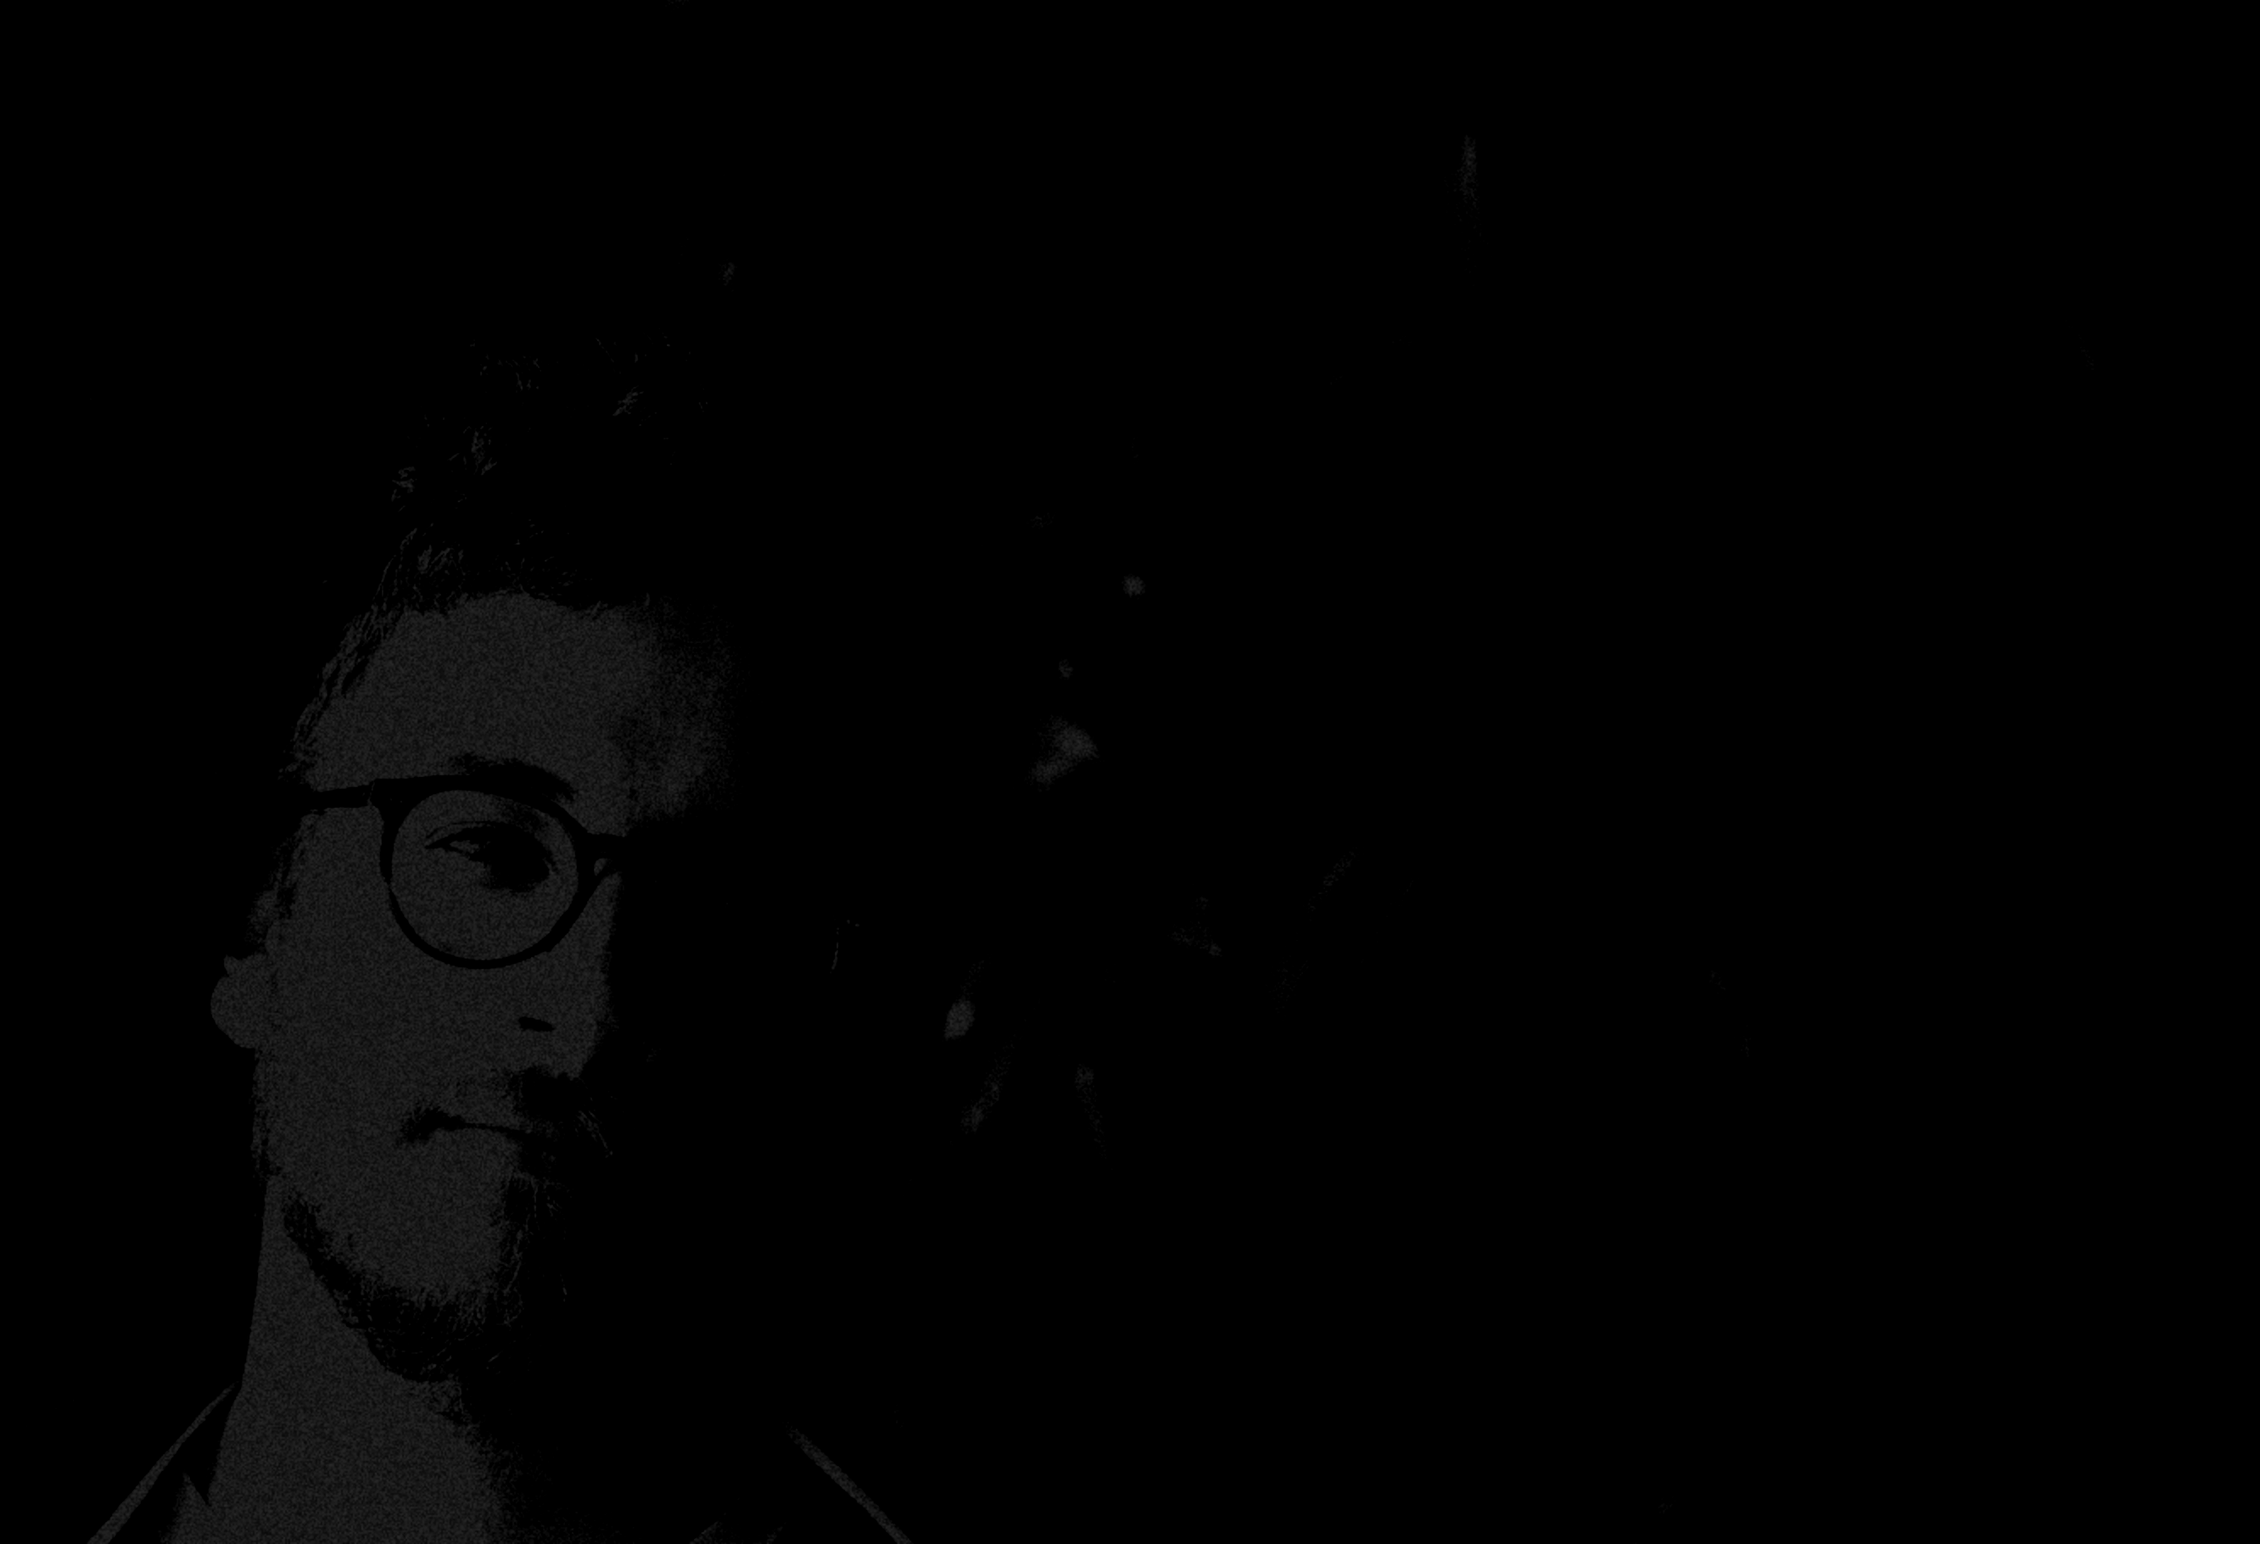
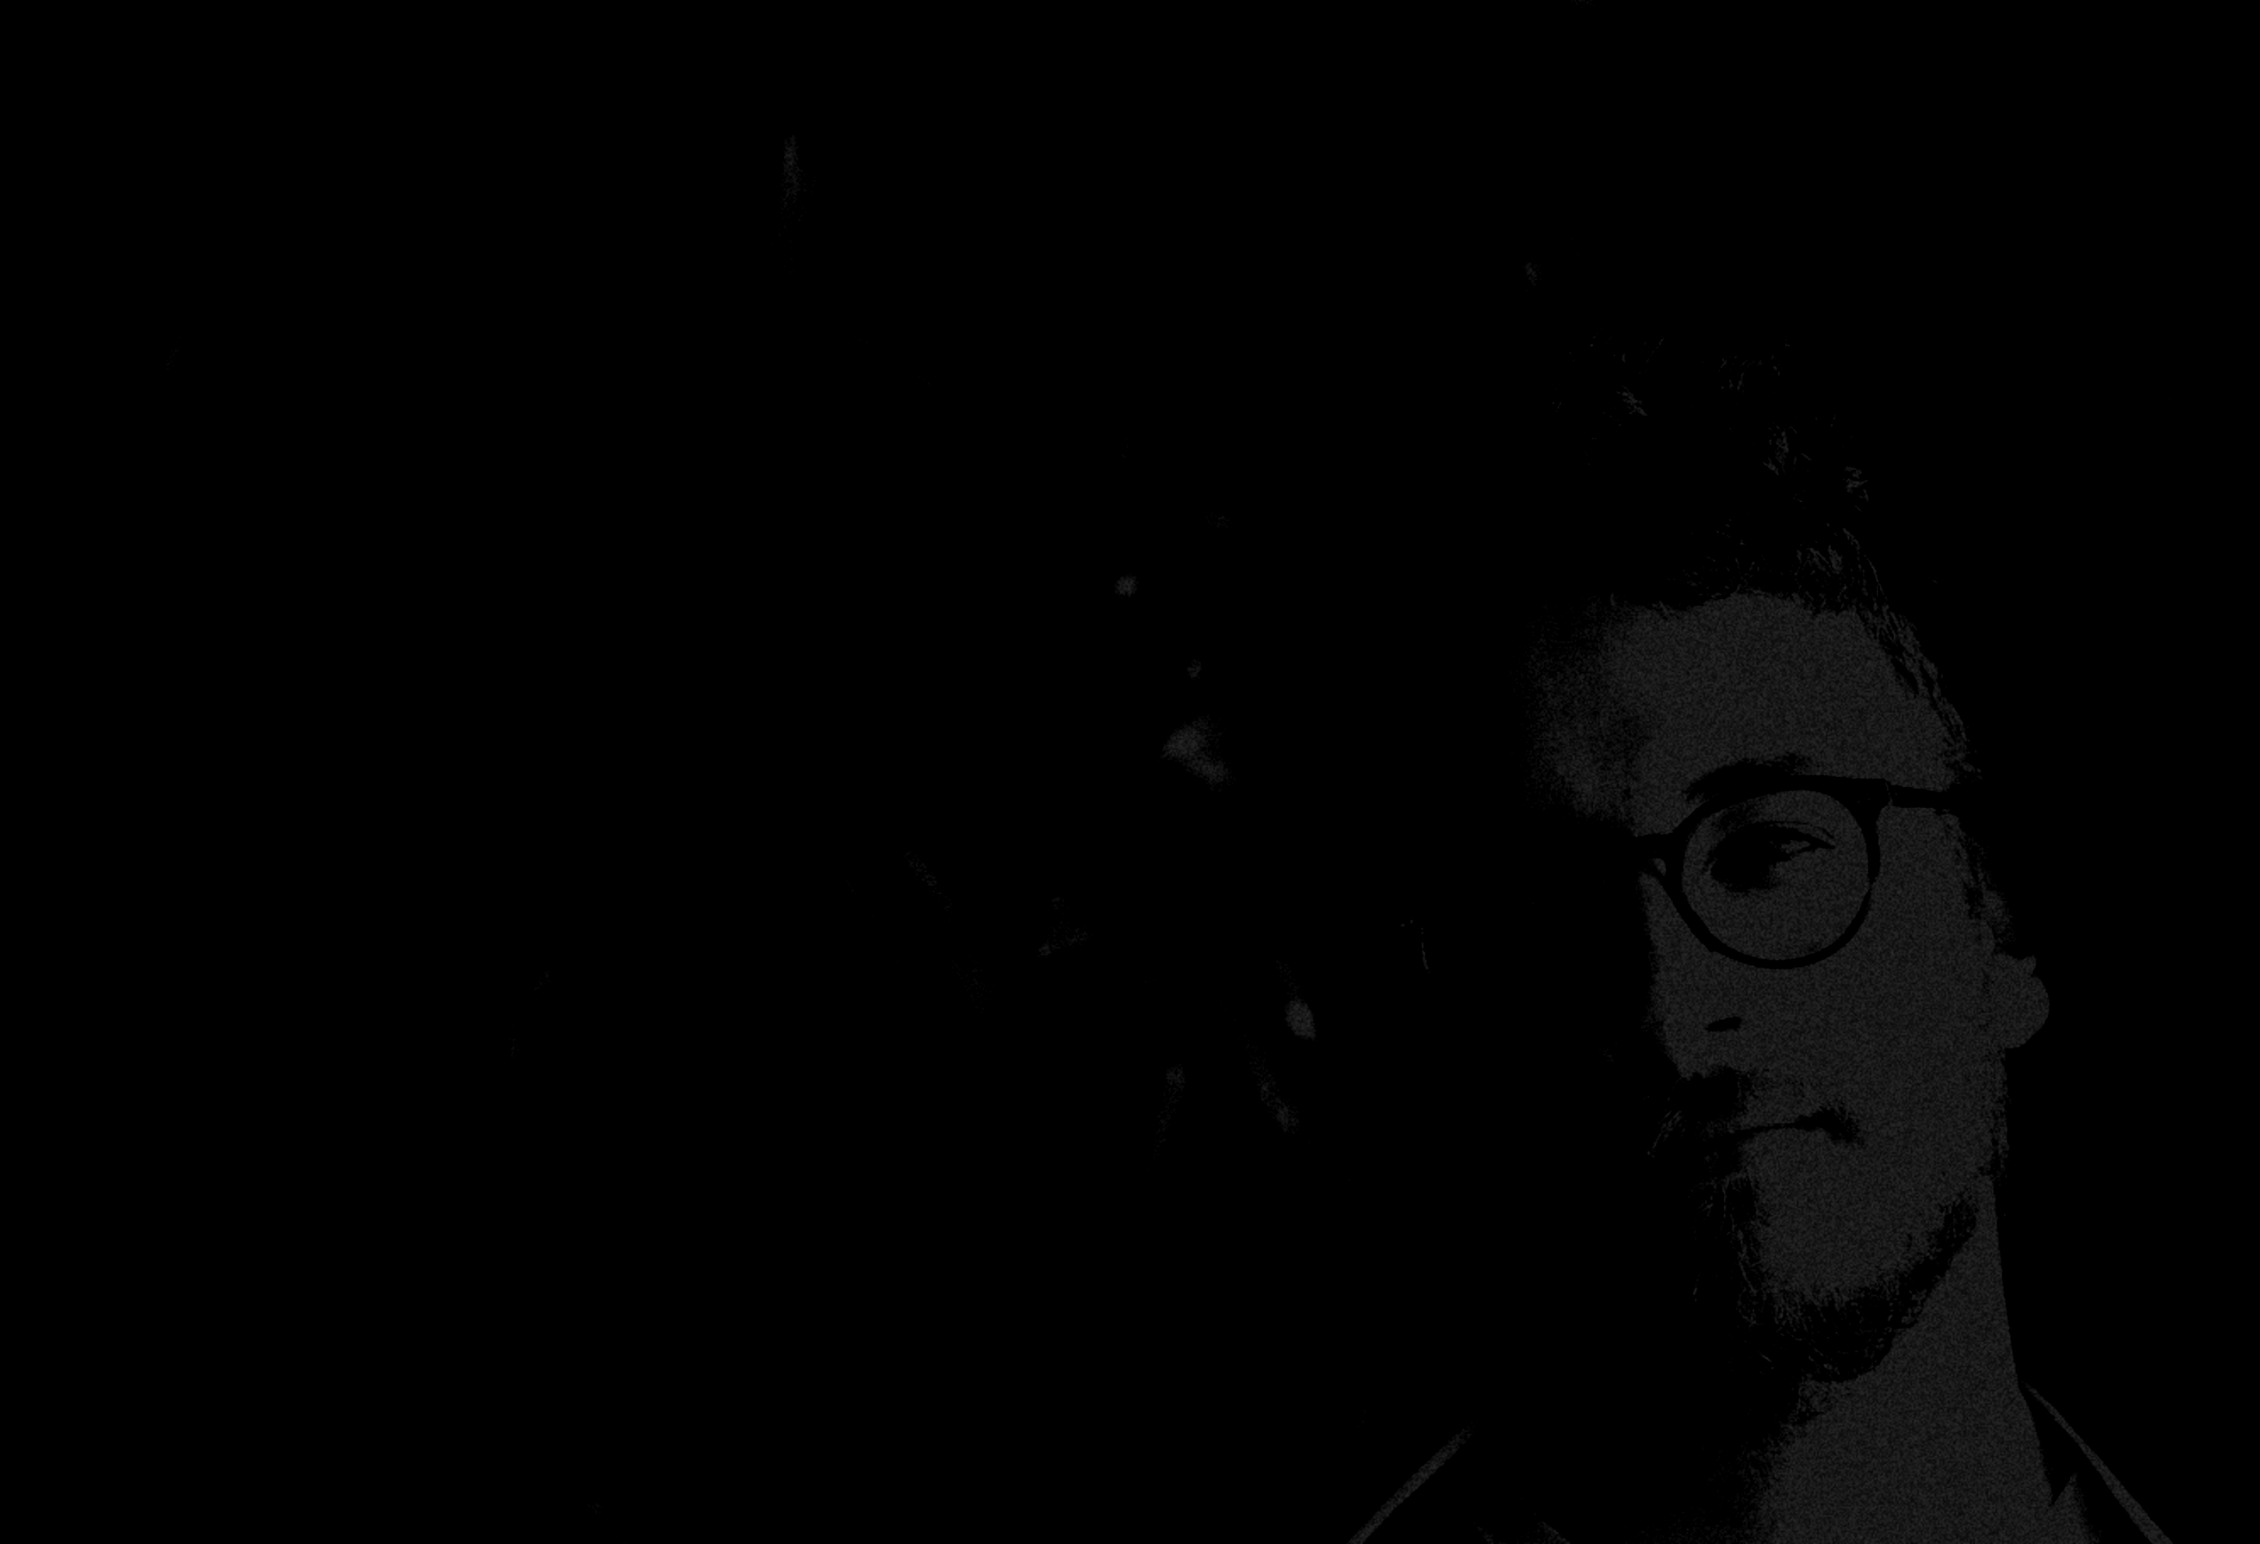
mostly complete reverse from right to left

Changed region(s): [[0.0312, 0.3692, 0.3116, 1.0], [0.6854, 0.3692, 0.9658, 1.0]]

diff --git a/src/components/WideBandAccordion.tsx b/src/components/WideBandAccordion.tsx
@@ -2,9 +2,10 @@ import React from "react";
 import { useState } from "react";
 import { useOnPrint } from "../UseOnPrint";
 import FeatherIcon from "feather-icons-react";
+import { ResumeSection } from "@/types";
 
 export interface AccordionSection {
-  section: string;
+  section: ResumeSection;
   title: React.ReactNode;
   children: React.ReactNode;
   expandedByDefault?: boolean;
@@ -16,14 +17,14 @@ export function WideBandAccordion({
   sections: AccordionSection[];
 }) {
   // selectedKeys is a Set of string indices of open dropdowns, or "all" for all open
-  const [selectedKeys, setSelectedKeys] = useState<Set<string> | "all">(
+  const [selectedKeys, setSelectedKeys] = useState<Set<ResumeSection> | "all">(
     () =>
       new Set(
         sections
           .map((section, i) =>
             section.expandedByDefault ? section.section : null,
           )
-          .filter((i) => i !== null) as string[],
+          .filter((i) => i !== null) as ResumeSection[],
       ),
   );
 
@@ -34,21 +35,21 @@ export function WideBandAccordion({
   // TODO: restore previously expanded sections
   useOnPrint(expandAllAccordionSections, () => {});
 
-  const isOpen = (i: number) =>
+  const isSectionOpen = (section: AccordionSection) =>
     selectedKeys === "all" ||
-    (selectedKeys instanceof Set && selectedKeys.has(sections[i].section));
+    (selectedKeys instanceof Set && selectedKeys.has(section.section));
 
-  const handleToggle = (i: number) => {
+  const handleSectionToggle = (section: AccordionSection) => {
     setSelectedKeys((prev) => {
       if (prev === "all") {
         // If all are open, close all except this one
-        return new Set([sections[i].section]);
+        return new Set([section.section]);
       }
       const newSet = new Set(prev);
-      if (newSet.has(sections[i].section)) {
-        newSet.delete(sections[i].section);
+      if (newSet.has(section.section)) {
+        newSet.delete(section.section);
       } else {
-        newSet.add(sections[i].section);
+        newSet.add(section.section);
       }
       return newSet;
     });
@@ -56,13 +57,12 @@ export function WideBandAccordion({
 
   return (
     <div>
-      {sections.map((section, i) => (
+      {sections.map((section) => (
         <WideBandAccordionSection
           key={section.section}
           section={section}
-          i={i}
-          isOpen={isOpen}
-          handleToggle={handleToggle}
+          isOpen={isSectionOpen(section)}
+          onToggle={() => handleSectionToggle(section)}
         />
       ))}
     </div>
@@ -71,37 +71,35 @@ export function WideBandAccordion({
 
 function WideBandAccordionSection({
   section,
-  i,
   isOpen,
-  handleToggle,
+  onToggle,
 }: {
   section: AccordionSection;
-  i: number;
-  isOpen: (i: number) => boolean;
-  handleToggle: (i: number) => void;
+  isOpen: boolean;
+  onToggle: () => void;
 }) {
   return (
     <div className="mb-2">
       <div
-        className={`collapse -mr-[10vw] w-screen rounded-none ${isOpen(i) ? "collapse-open" : ""}`}
+        className={`collapse w-screen rounded-none ${isOpen ? "collapse-open" : ""}`}
       >
         <div
           tabIndex={0}
-          className="collapse-title to-primary print:text-md print:font-metal via-primary/60 flex w-full cursor-pointer items-center justify-between bg-gradient-to-r from-transparent via-25% px-4 py-3 pr-[10vw] text-lg font-bold tracking-tight text-black uppercase md:text-2xl print:ml-4 print:text-left"
-          onClick={() => handleToggle(i)}
+          className="collapse-title print:text-md print:font-metal via-primary/40 from-primary flex w-full cursor-pointer items-center justify-start bg-gradient-to-r via-75% to-transparent py-3 pl-1 text-lg font-bold tracking-tight text-black uppercase md:text-2xl print:ml-4"
+          onClick={onToggle}
         >
-          <span className="flex-1 text-right">{section.title}</span>
-          <span className="ml-2 text-xl text-black print:hidden">
-            {isOpen(i) ? (
+          <span className="ml-2 text-xl text-black md:pl-58 print:hidden">
+            {isOpen ? (
               <FeatherIcon size="16" icon="minus" />
             ) : (
               <FeatherIcon size="16" icon="plus" />
             )}
           </span>
+          <span className="pl-2">{section.title}</span>
         </div>
         <div
           tabIndex={0}
-          className={`collapse-content mt-1 w-full p-4 pr-[10vw] shadow transition-all duration-200 ${isOpen(i) ? "block" : "hidden"} mb-4 flex flex-col items-end space-y-4 md:space-y-6 print:mb-2 print:space-y-1`}
+          className={`collapse-content mt-1 w-full px-0 py-2 shadow transition-all duration-200 ${isOpen ? "block" : "hidden"} mb-4 flex flex-col space-y-4 md:space-y-6 print:mb-2 print:space-y-1 ${section.section !== ResumeSection.WorkExperience ? "pl-4 md:pl-64" : ""}`}
         >
           {section.children}
         </div>

diff --git a/src/components/resume/WorkExperience.tsx b/src/components/resume/WorkExperience.tsx
@@ -15,7 +15,7 @@ function Job(props: JobProps) {
     <div className="break-inside-avoid">
       {props.roles.map((role) => (
         <ResumeHeading variant="h3" key={role.title}>
-          <div className="flex items-center justify-end gap-x-2 print:flex-row-reverse">
+          <div className="flex items-center gap-x-2 print:flex-row-reverse">
             <span className="align-middle text-xs text-nowrap sm:text-sm">
               ({role.startDate} – {role.endDate})
             </span>
@@ -44,7 +44,7 @@ export function WorkExperience() {
 
 function AccordionWorkExperience() {
   const [selectedKeys, setSelectedKeys] = useState<Set<string>>(
-    new Set([jobs[0].company]),
+    () => new Set([jobs[0].company]),
   );
 
   const isOpen = (company: string) => selectedKeys.has(company);
@@ -63,19 +63,18 @@ function AccordionWorkExperience() {
   };
 
   return (
-    <div className="px-0">
+    <>
       {jobs.map((job) => (
         <div className="mb-2" key={job.company}>
           <div
-            className={`collapse -mr-[10vw] w-screen rounded-none ${isOpen(job.company) ? "collapse-open" : ""}`}
+            className={`lg:-pl-60 collapse w-screen rounded-none ${isOpen(job.company) ? "collapse-open" : ""}`}
           >
             <div
               tabIndex={0}
-              className="collapse-title to-secondary/10 text-secondary print:text-md flex w-full cursor-pointer items-center justify-between bg-gradient-to-r from-transparent via-transparent via-[35%] pr-[10vw] text-lg font-bold uppercase md:text-xl print:ml-4 print:text-left"
+              className="collapse-title to-secondary/20 text-secondary print:text-md flex w-full cursor-pointer items-center justify-start bg-gradient-to-l from-transparent via-transparent via-[15%] pl-1 text-lg font-bold uppercase md:text-xl print:ml-4 print:text-left"
               onClick={() => handleToggle(job.company)}
             >
-              <span className="flex-1 text-right">{job.company}</span>
-              <span className="ml-2 text-xl text-black print:hidden">
+              <span className="ml-2 text-xl text-black md:pl-58 print:hidden">
                 {isOpen(job.company) ? (
                   <FeatherIcon
                     size="16"
@@ -90,17 +89,18 @@ function AccordionWorkExperience() {
                   />
                 )}
               </span>
+              <span className="pl-2">{job.company}</span>
             </div>
             <div
               tabIndex={0}
-              className={`collapse-content mt-1 w-full p-4 pr-[10vw] shadow transition-all duration-200 ${isOpen(job.company) ? "block" : "hidden"} mb-6 flex flex-col items-end space-y-4 md:space-y-6 print:mb-3 print:space-y-2`}
+              className={`collapse-content mt-1 w-full px-4 pt-2 shadow transition-all duration-200 md:pl-64 ${isOpen(job.company) ? "block" : "hidden"} mb-6 flex flex-col space-y-4 md:space-y-6 print:mb-3 print:space-y-2`}
             >
               <Job {...job} />
             </div>
           </div>
         </div>
       ))}
-    </div>
+    </>
   );
 }
 

diff --git a/src/pages/About.tsx b/src/pages/About.tsx
@@ -6,7 +6,7 @@ import React from "react";
 
 function BannerHeader({ content }: { content: string }) {
   return (
-    <div className="to-primary w-screen bg-linear-to-r from-transparent to-20% pt-10 pr-4 pb-4 leading-[0.9] md:pt-16 md:pr-[10vw]">
+    <div className="to-primary w-screen bg-linear-to-l from-transparent to-20% pt-10 pb-4 pl-4 leading-[0.9] lg:pl-64">
       <h1 className="text-4xl leading-10 font-bold whitespace-pre-line text-black md:text-6xl md:leading-14">
         {content}
       </h1>
@@ -16,7 +16,7 @@ function BannerHeader({ content }: { content: string }) {
 
 function Blurb() {
   return (
-    <section className="flex flex-col flex-nowrap items-end space-y-4">
+    <section className="flex flex-col flex-nowrap space-y-4">
       <Prose>
         I'm a career backend engineer in{" "}
         <span className="font-black">Portland, OR</span> who's done a little bit
@@ -37,14 +37,14 @@ function Blurb() {
 
 function HighlightedLike() {
   return (
-    <section className="text-secondary ml-4 flex flex-col items-end gap-4 text-2xl font-bold whitespace-pre-line md:text-4xl">
+    <section className="text-secondary flex flex-col gap-4 text-2xl font-bold whitespace-pre-line md:text-4xl">
       <div>
         <h4 className="text-sm font-bold">I really like</h4>
         <span className="text-6xl leading-[0.8]">
           solving problems{"\n"}with software.
         </span>
       </div>
-      <div className="grid grid-cols-1 justify-items-end gap-4 sm:grid-cols-2">
+      <div className="flex flex-col gap-4 lg:flex-row">
         <ButtonLink
           href="/portfolio"
           text="Portfolio"
@@ -60,9 +60,9 @@ type Like = string | ReactNode;
 
 function LikesSection({ header, likes }: { header: string; likes: Like[] }) {
   return (
-    <section className="flex flex-col flex-nowrap items-end not-print:space-y-6">
+    <section className="flex flex-col flex-nowrap not-print:space-y-6">
       <h4 className="text-lg font-bold">{header}</h4>
-      <ul className="flex flex-col flex-nowrap items-end space-y-2">
+      <ul className="flex flex-col flex-nowrap space-y-2">
         {likes.map((like) => (
           <li
             key={
@@ -102,15 +102,17 @@ const outsideWorkLikes = [
 
 export function About() {
   return (
-    <div className="my-16 flex flex-col space-y-8 md:space-y-16">
+    <>
       <BannerHeader content={"Colin\nBridges"} />
-      <Blurb />
-      <HighlightedLike />
-      <LikesSection header="When I'm at work, I like..." likes={workLikes} />
-      <LikesSection
-        header="When I'm not at work, I like..."
-        likes={outsideWorkLikes}
-      />
-    </div>
+      <div className="flex flex-col space-y-8 pl-4 lg:space-y-12 lg:pl-64">
+        <Blurb />
+        <HighlightedLike />
+        <LikesSection header="When I'm at work, I like..." likes={workLikes} />
+        <LikesSection
+          header="When I'm not at work, I like..."
+          likes={outsideWorkLikes}
+        />
+      </div>
+    </>
   );
 }

diff --git a/src/components/AppLayout.tsx b/src/components/AppLayout.tsx
@@ -9,9 +9,9 @@ export function AppLayout({ children }: AppLayoutProps) {
   return (
     <>
       <div className="not-print:text-primary flex min-h-screen overflow-hidden bg-left bg-blend-multiply filter not-print:bg-gradient-to-bl not-print:from-black not-print:to-gray-900 not-print:to-[95%] not-print:uppercase md:bg-cover md:bg-fixed not-print:md:bg-[url(/assets/img/bg/me-grainy.png)] print:block print:min-h-0 print:bg-white print:text-black">
-        <main className="relative flex w-screen flex-1 flex-col text-center print:static print:block print:w-full">
+        <main className="relative flex w-screen flex-1 flex-col print:static print:block print:w-full">
           <div className="pointer-events-none absolute top-0 left-0 h-full w-full bg-[url(/assets/img/bg/film-grain.png)] md:bg-cover md:bg-fixed print:hidden"></div>
-          <div className="my-4 mr-4 flex flex-1 flex-col gap-8 not-print:text-right not-print:md:mr-[10vw] print:my-0 print:mr-0 print:block print:text-left print:text-sm">
+          <div className="mt-4 flex flex-1 flex-col gap-8 print:my-0 print:mr-0 print:block print:text-sm">
             {children}
           </div>
         </main>

diff --git a/src/components/resume/ResumePrimitives.tsx b/src/components/resume/ResumePrimitives.tsx
@@ -37,7 +37,7 @@ export function List(props: ListProps) {
   const { items, classNames } = props;
   return (
     <ul
-      className={`${classNames?.ul || ""} flex list-outside flex-col flex-nowrap items-end space-y-4 print:ml-4 print:space-y-0`}
+      className={`${classNames?.ul || ""} flex list-outside flex-col flex-nowrap space-y-4 print:ml-4 print:space-y-0`}
     >
       {items.map((item) => {
         if (typeof item === "string") {

diff --git a/src/components/resume/Header.tsx b/src/components/resume/Header.tsx
@@ -12,7 +12,7 @@ export function Header() {
   }
 
   return (
-    <div className="-mr-4 mb-4 not-print:md:-mr-[10vw]">
+    <div className="mb-4">
       <div className="grid grid-cols-2 items-center gap-4 not-print:hidden">
         <div className="flex flex-col items-end justify-end text-right">
           <h1 className="font-metal text-xl tracking-[0.05em]">
